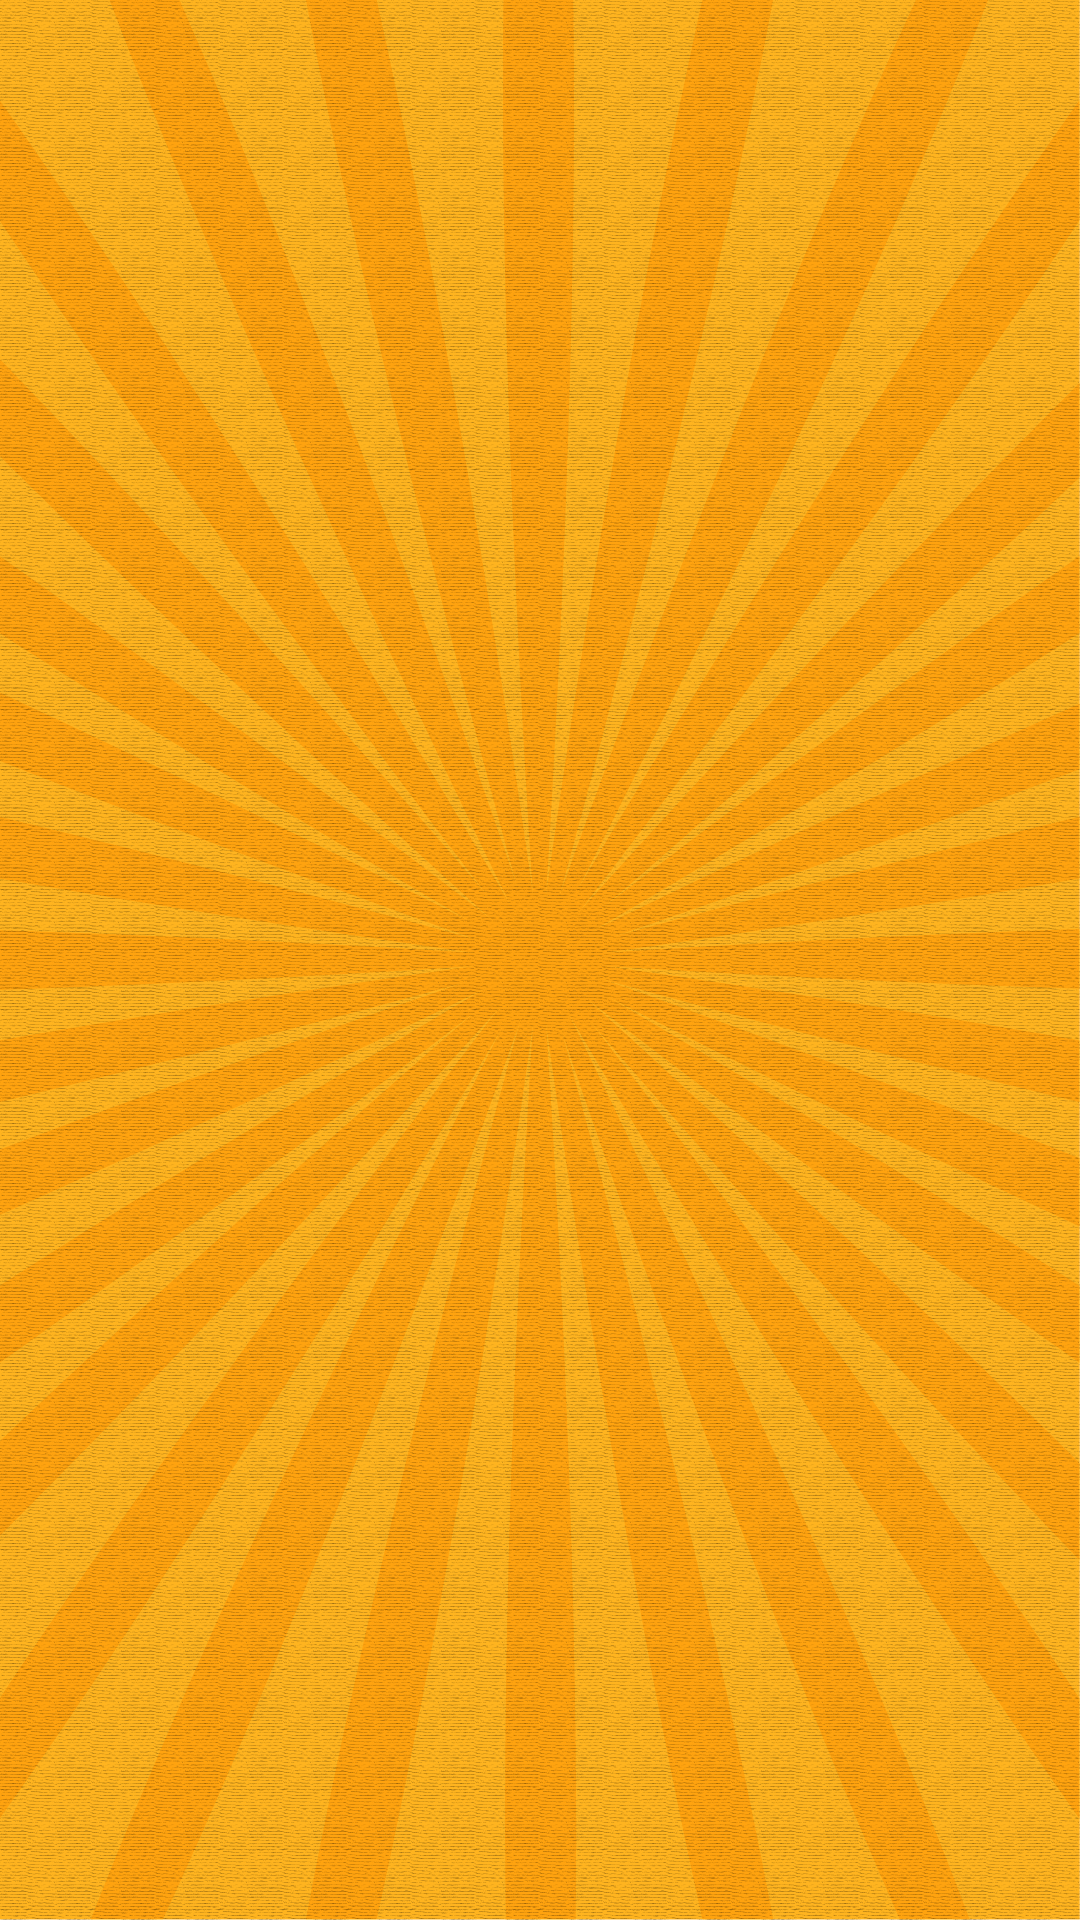
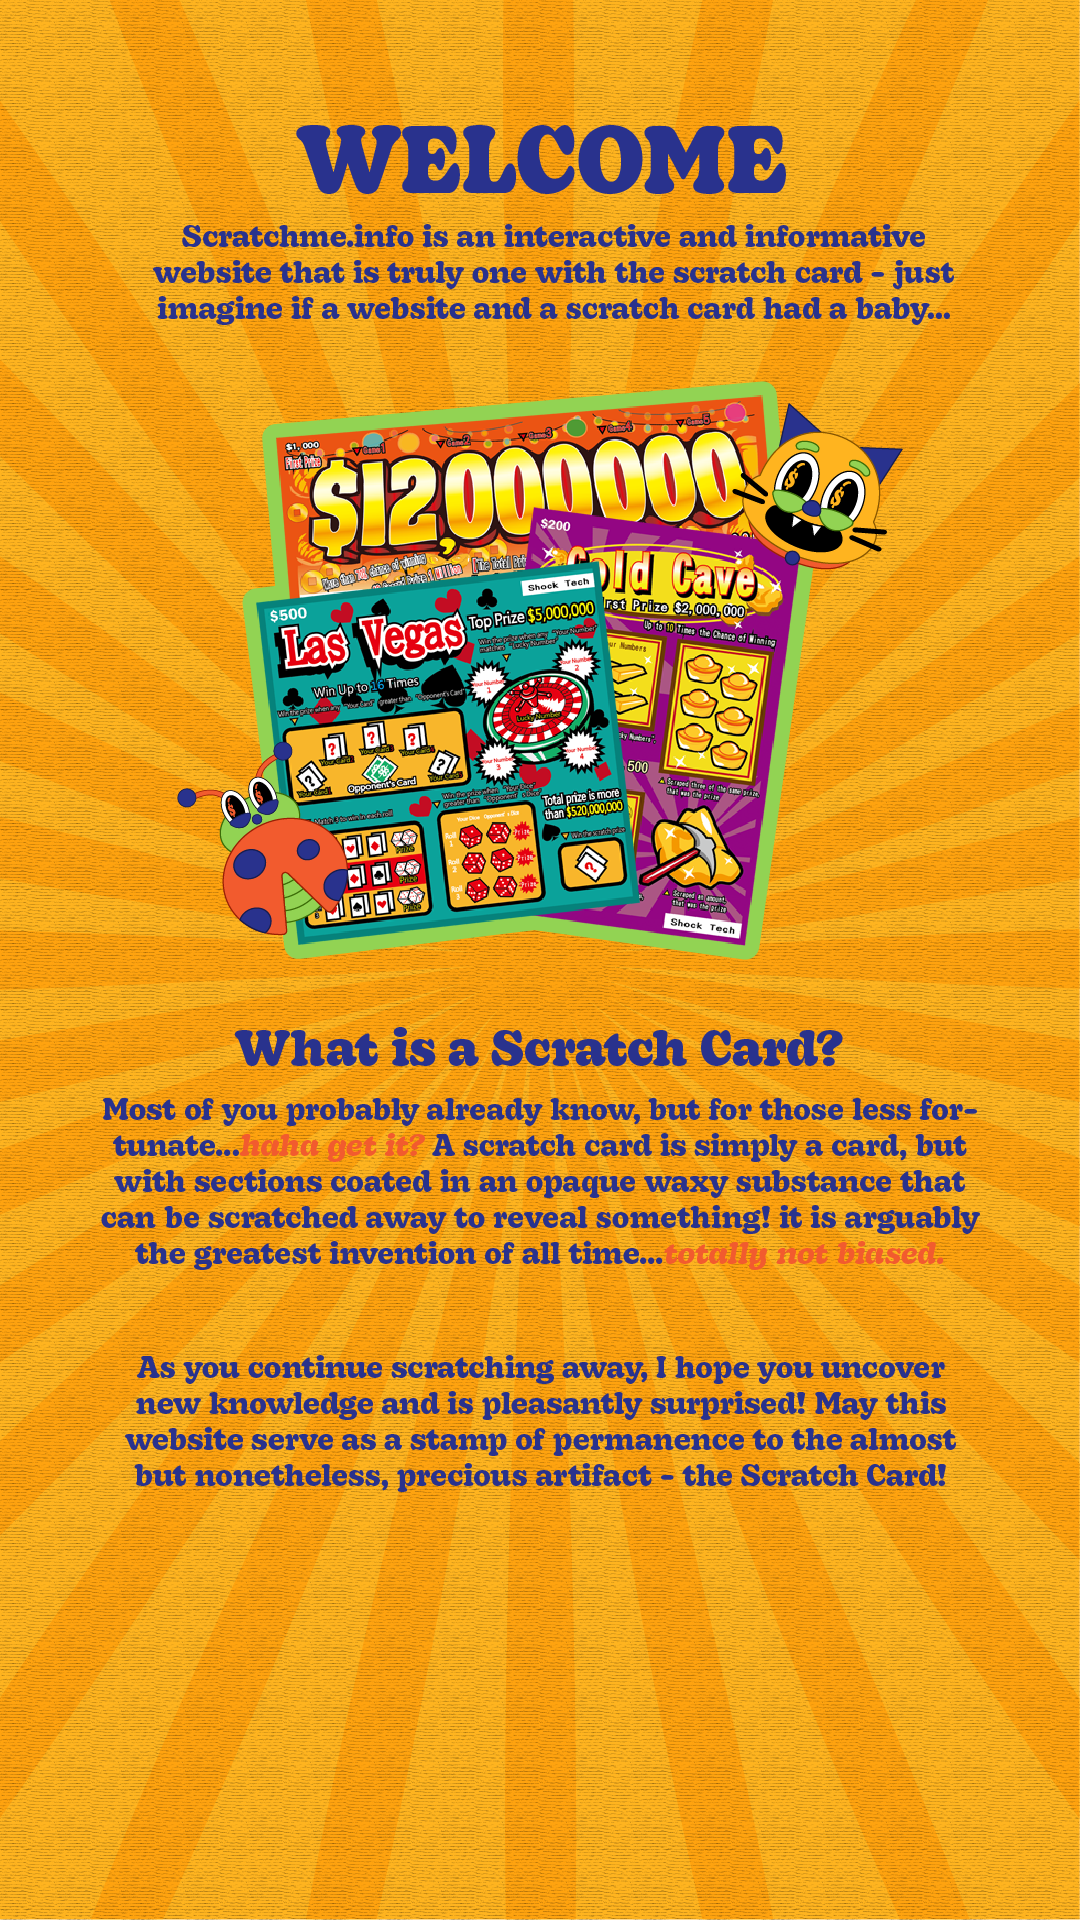
added all bgs, added audio, arranged buttons

Changed region(s): [[0.1528, 0.0625, 0.8861, 0.5], [0.0917, 0.5312, 0.9167, 0.6562], [0.1222, 0.6875, 0.8861, 0.7812]]

diff --git a/origin1 style.css b/origin1 style.css
@@ -1,0 +1,81 @@
+.image-container {
+    position: relative;
+    width: 100vw;
+    height: 100vh;
+    z-index: 5;
+}
+  
+.link-image {
+    position: absolute;
+    width: 25vw;           /* Responsive width */
+    max-width: 25vw;      /* Prevent oversized buttons */
+}
+
+html, body {
+    height: 100%;
+    width: 100%;
+    margin: 0;
+    padding: 0;
+    overflow: hidden;
+    touch-action: none; 
+}
+
+@media screen and (min-width: 480px) {  /* Desktop View */
+    .back-btn {
+      bottom: 5vh;
+      right: 5vw;
+    }
+
+    body {
+        background-image: url('origin bg 1 desktop.webp');
+        background-size: cover;        
+        background-position: center;    
+        background-repeat: no-repeat;   
+      }
+}
+
+@media screen and (max-width: 479px) {
+    body {
+      background-image: url('origin 1 bg mobile.webp');
+      background-size: cover;
+      background-position: center;
+      background-repeat: no-repeat;
+    }
+  
+    .image-container {
+      position: absolute;
+      display: flex;
+      flex-direction: column;
+      align-items: center;
+    }
+  
+    .link-image {
+      position: static;
+      width: 60vw;
+      max-width: 300px;
+    }
+  
+    .back-btn {
+      position: absolute;         /* Ensure it's positioned relative to the nearest positioned ancestor */
+      bottom: 5vh;                /* Distance from bottom */
+      left: 50%;                  
+      transform: translateX(-50%); 
+    }
+}
+
+/* Canvas container (scratch card) is behind images */
+#canvas-container {
+    position: absolute;
+    top: 0;
+    left: 0;
+    z-index: 10; /* Canvas below the images */
+    pointer-events: none;
+}
+  
+  /* Optional: Apply to the canvas if needed */
+canvas {
+    position: absolute;
+    top: 0;
+    left: 0;
+    z-index: 5;
+}

diff --git a/origin2 style.css b/origin2 style.css
@@ -1,0 +1,81 @@
+.image-container {
+    position: relative;
+    width: 100vw;
+    height: 100vh;
+    z-index: 5;
+}
+  
+.link-image {
+    position: absolute;
+    width: 25vw;           /* Responsive width */
+    max-width: 25vw;      /* Prevent oversized buttons */
+}
+
+html, body {
+    height: 100%;
+    width: 100%;
+    margin: 0;
+    padding: 0;
+    overflow: hidden;
+    touch-action: none; 
+}
+
+@media screen and (min-width: 480px) {  /* Desktop View */
+    .back-btn {
+      bottom: 5vh;
+      left: 5vw;
+    }
+
+    body {
+        background-image: url('origin 2 bg desktop.webp');
+        background-size: cover;        
+        background-position: center;    
+        background-repeat: no-repeat;   
+      }
+}
+
+@media screen and (max-width: 479px) {
+    body {
+      background-image: url('origin 2 bg mobile.webp');
+      background-size: cover;
+      background-position: center;
+      background-repeat: no-repeat;
+    }
+  
+    .image-container {
+      position: absolute;
+      display: flex;
+      flex-direction: column;
+      align-items: center;
+    }
+  
+    .link-image {
+      position: static;
+      width: 60vw;
+      max-width: 300px;
+    }
+  
+    .back-btn {
+      position: absolute;         /* Ensure it's positioned relative to the nearest positioned ancestor */
+      bottom: 5vh;                /* Distance from bottom */
+      left: 50%;                  
+      transform: translateX(-50%); 
+    }
+}
+
+/* Canvas container (scratch card) is behind images */
+#canvas-container {
+    position: absolute;
+    top: 0;
+    left: 0;
+    z-index: 10; /* Canvas below the images */
+    pointer-events: none;
+}
+  
+  /* Optional: Apply to the canvas if needed */
+canvas {
+    position: absolute;
+    top: 0;
+    left: 0;
+    z-index: 5;
+}

diff --git a/about style.css b/about style.css
@@ -12,7 +12,7 @@
   max-width: 25vw;      /* Prevent oversized buttons */
 }
 
-h1,h2{
+/* h1,h2{
   font-family: "decoy", serif;
   font-weight: 700;
   font-style: normal;
@@ -29,7 +29,7 @@ p {
   font-family: "decoy", serif;
   font-weight: 400;
   font-style: normal;
-}
+} */
 
 html, body {
   height: 100%;
@@ -102,7 +102,7 @@ html, body {
 
 @media screen and (max-width: 479px) {
   body {
-    background-image: url('about bg mobile w text.webp');
+    background-image: url('about bg mobile.webp');
     background-size: cover;
     background-position: center;
     background-repeat: no-repeat;
@@ -123,7 +123,7 @@ html, body {
 
   .back-btn {
     position: absolute;         /* Ensure it's positioned relative to the nearest positioned ancestor */
-    bottom: 10vh;                /* Distance from bottom */
+    bottom: 5vh;                /* Distance from bottom */
     left: 50%;                  
     transform: translateX(-50%); 
   }

diff --git a/sketch.js b/sketch.js
@@ -5,11 +5,17 @@ let dustParticles = [];
 let scratchedAmount = 0; // Track how much of the scratchcard has been scratched
 let isMobile;
 
+let scratchSound;
+let scratchTimeout;
+
 function preload() {
   // Load images for desktop and mobile
   desktopImage = loadImage("scratch me desktop.webp");
   mobileImage = loadImage("scratch me mobile.webp");
   coin = loadImage("coin.png");
+
+  soundFormats('mp3', 'ogg'); // Optional if using different audio types
+  scratchSound = loadSound('scratch.mp3'); // Make sure the file name is correct
 }
 
 function setup() {
@@ -81,6 +87,15 @@ function touchMoved(event) {
 }
 
 function scratch(x, y, px, py) {
+  if (!scratchSound.isPlaying()) {
+    scratchSound.loop();
+  }
+
+  clearTimeout(scratchTimeout);
+  scratchTimeout = setTimeout(() => {
+    scratchSound.stop();
+  }, 200);
+  
   maskGraphics.push();
   maskGraphics.erase(255, 255); // Erase white pixels (make them transparent in the mask)
 

diff --git a/about.html b/about.html
@@ -4,7 +4,7 @@
     <meta charset="UTF-8">
     <meta name="viewport" content="width=device-width, initial-scale=1.0">
     <title>About</title>
-    <link rel="stylesheet" href="https://use.typekit.net/anq0rxe.css">
+    <!-- <link rel="stylesheet" href="https://use.typekit.net/anq0rxe.css"> -->
     <link rel="stylesheet" href="about style.css">
 </head>
 <body>
@@ -32,6 +32,7 @@
     <div id="canvas-container"></div>
 
     <script src="https://cdnjs.cloudflare.com/ajax/libs/p5.js/1.4.0/p5.js"></script>
-    <!-- <script src="sketch.js"></script> -->
+    <script src="https://cdnjs.cloudflare.com/ajax/libs/p5.js/1.4.0/addons/p5.sound.min.js"></script>
+    <script src="sketch.js"></script>
 </body>
 </html>

diff --git a/index.html b/index.html
@@ -10,7 +10,7 @@
 
 <div class="image-container">
   <a href="about.html"><img src="about button.png" class="link-image about-btn"></a>
-  <a href="origin.html"><img src="origin button.png" class="link-image origin-btn"></a>
+  <a href="origin1.html"><img src="origin button.png" class="link-image origin-btn"></a>
   <a href="play.html"><img src="play button.png" class="link-image play-btn"></a>
 </div>
 
@@ -19,6 +19,7 @@
 
 <!-- Link to p5.js library and the sketch -->
 <script src="https://cdnjs.cloudflare.com/ajax/libs/p5.js/1.4.0/p5.js"></script>
+<script src="https://cdnjs.cloudflare.com/ajax/libs/p5.js/1.4.0/addons/p5.sound.min.js"></script>
 <script src="sketch.js"></script>
 </body>
 </html>

diff --git a/origin1.html b/origin1.html
@@ -1,0 +1,21 @@
+<!DOCTYPE html>
+<html lang="en">
+<head>
+    <meta charset="UTF-8">
+    <meta name="viewport" content="width=device-width, initial-scale=1.0">
+    <title>Origin1</title>
+    <link rel="stylesheet" href="origin1 style.css">
+</head>
+
+<body>
+    <div class="image-container">
+        <a href="origin2.html"><img src="next button.png" class="link-image back-btn"></a>
+      </div>
+  
+      <div id="canvas-container"></div>
+  
+      <script src="https://cdnjs.cloudflare.com/ajax/libs/p5.js/1.4.0/p5.js"></script>
+      <script src="https://cdnjs.cloudflare.com/ajax/libs/p5.js/1.4.0/addons/p5.sound.min.js"></script>
+      <script src="sketch.js"></script>
+</body>
+</html>

diff --git a/origin2.html b/origin2.html
@@ -1,0 +1,21 @@
+<!DOCTYPE html>
+<html lang="en">
+<head>
+    <meta charset="UTF-8">
+    <meta name="viewport" content="width=device-width, initial-scale=1.0">
+    <title>Origin1</title>
+    <link rel="stylesheet" href="origin2 style.css">
+</head>
+
+<body>
+    <div class="image-container">
+        <a href="index.html"><img src="back button.png" class="link-image back-btn"></a>
+      </div>
+  
+      <div id="canvas-container"></div>
+  
+      <script src="https://cdnjs.cloudflare.com/ajax/libs/p5.js/1.4.0/p5.js"></script>
+      <script src="https://cdnjs.cloudflare.com/ajax/libs/p5.js/1.4.0/addons/p5.sound.min.js"></script>
+      <script src="sketch.js"></script>
+</body>
+</html>

diff --git a/play.js b/play.js
@@ -33,6 +33,7 @@ let lightningDuration = 50;
 let lightningDelay = 50;
 
 let scratchSound, streamersSound, rainSound;
+let scratchTimeout;
 
 let cardX, cardY;
 let scaleFactor;
@@ -230,8 +231,13 @@ function mouseDragged() {
     scratch(mouseX - cardX, mouseY - cardY, pmouseX - cardX, pmouseY - cardY);
 
     if (!scratchSound.isPlaying()) {
-      scratchSound.play(); // Play scratch sound while dragging
+      scratchSound.loop(); // Play scratch sound while dragging
     }
+    
+    clearTimeout(scratchTimeout);
+  scratchTimeout = setTimeout(() => {
+    scratchSound.stop();
+  }, 200);
   }
 }
 

diff --git a/style.css b/style.css
@@ -38,6 +38,13 @@ html, body {
     bottom: 2vh;
     right: 2vw;
   }
+
+  body {
+    background-image: url('index bg desktop.webp');
+    background-size: cover;        
+    background-position: center;    
+    background-repeat: no-repeat;   
+  }
 }
 
 @media screen and (max-width: 479px) {
@@ -56,6 +63,13 @@ html, body {
     justify-content: center;
     align-items: center;
     pointer-events: none;
+  }
+
+  body {
+    background-image: url('index bg mobile.webp');
+    background-size: cover;
+    background-position: center;
+    background-repeat: no-repeat;
   }
 }
 
